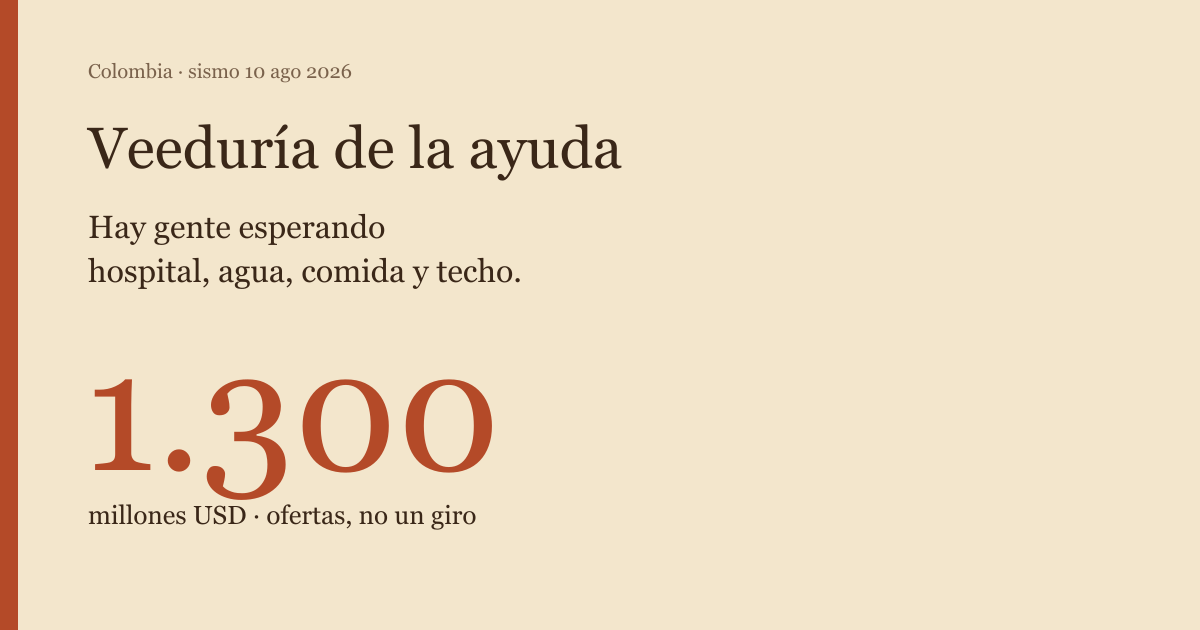
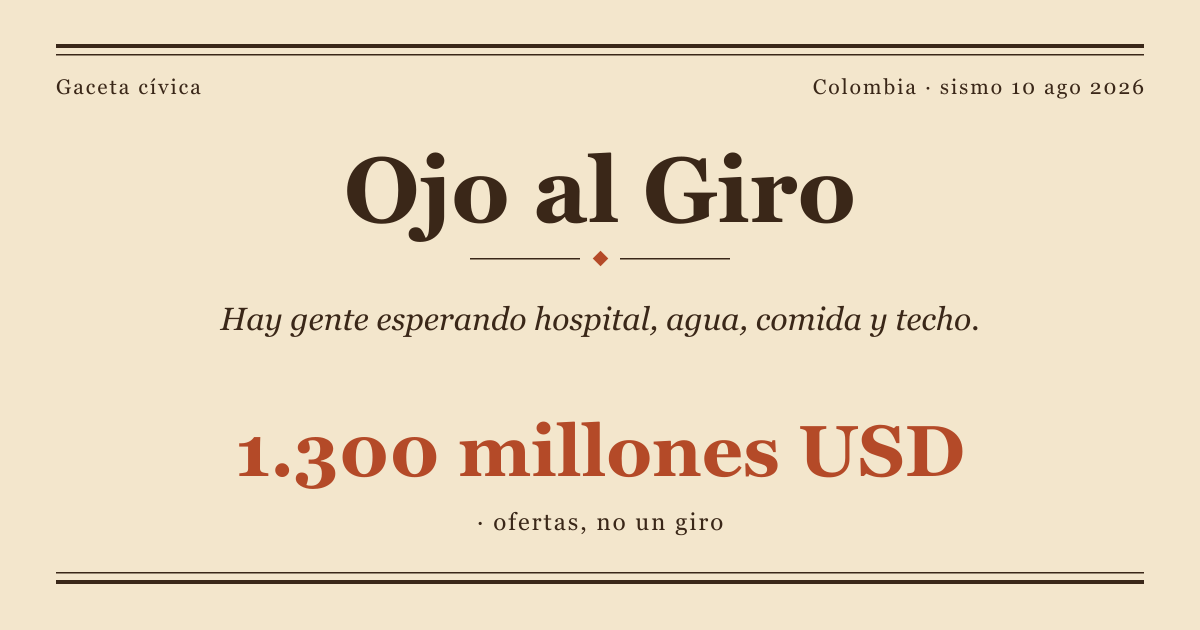
Renombrar a Ojo al Giro y proteger el registro con el validador.

diff --git a/index.html b/index.html
@@ -3,12 +3,12 @@
   <head>
     <meta charset="utf-8" />
     <meta name="viewport" content="width=device-width, initial-scale=1" />
-    <title>Veeduría de la ayuda</title>
+    <title>Ojo al Giro</title>
     <meta
       name="description"
       content="Hay gente esperando hospital, agua, comida y techo. Registro de la ayuda anunciada tras el sismo. Oferta no es giro."
     />
-    <meta property="og:title" content="Veeduría de la ayuda" />
+    <meta property="og:title" content="Ojo al Giro" />
     <meta
       property="og:description"
       content="Hay gente esperando. Oferta no es giro. Registro con fuente."
@@ -17,21 +17,21 @@
     <meta property="og:locale:alternate" content="en_US" />
     <meta
       property="og:image"
-      content="https://veeduria-ayuda.vercel.app/public/cartel-veeduria.png"
+      content="https://ojo-al-giro.vercel.app/public/cartel-veeduria.png"
     />
-    <meta property="og:url" content="https://veeduria-ayuda.vercel.app/" />
+    <meta property="og:url" content="https://ojo-al-giro.vercel.app/" />
     <meta property="og:type" content="website" />
     <meta name="twitter:card" content="summary_large_image" />
-    <meta name="twitter:title" content="Veeduría de la ayuda" />
+    <meta name="twitter:title" content="Ojo al Giro" />
     <meta
       name="twitter:description"
       content="Hay gente esperando. Oferta no es giro. Registro con fuente."
     />
     <meta
       name="twitter:image"
-      content="https://veeduria-ayuda.vercel.app/public/cartel-veeduria.png"
+      content="https://ojo-al-giro.vercel.app/public/cartel-veeduria.png"
     />
-    <link rel="canonical" href="https://veeduria-ayuda.vercel.app/" />
+    <link rel="canonical" href="https://ojo-al-giro.vercel.app/" />
     <link rel="stylesheet" href="styles.css" />
     <script>
       if (/[?&]lang=en(?:&|$)/.test(location.search)) {
@@ -52,8 +52,8 @@
         </p>
       </div>
       <h1>
-        <span data-lang="es">Veeduría de la ayuda</span>
-        <span data-lang="en">Watching the aid</span>
+        <span data-lang="es">Ojo al Giro</span>
+        <span data-lang="en">Ojo al Giro</span>
       </h1>
       <p class="lead">
         <span data-lang="es">Hay gente esperando hospital, agua, comida y techo. Aquí se sigue la ayuda que se anunció. Con fuente. Lo anunciado no es lo que ya llegó.</span>
@@ -151,10 +151,10 @@
 
       <p class="tweet-line">
         <span id="share-copy-es" data-lang="es">Hay gente esperando hospital, agua, comida y techo. Los 1.300 millones USD son ofertas, no un giro.
-https://veeduria-ayuda.vercel.app/
+https://ojo-al-giro.vercel.app/
 @infopresidencia @UNGRD @CancilleriaCol @CGR_Colombia</span>
         <span id="share-copy-en" data-lang="en">People are waiting for hospitals, water, food and shelter. The USD 1.3 billion are offers, not a transfer.
-https://veeduria-ayuda.vercel.app/?lang=en
+https://ojo-al-giro.vercel.app/?lang=en
 @infopresidencia @UNGRD @CancilleriaCol @CGR_Colombia</span>
         <button type="button" id="copy-btn">
           <span data-lang="es">Copiar para X</span>
@@ -208,7 +208,7 @@ https://veeduria-ayuda.vercel.app/?lang=en
 
     <footer>
       <p>
-        <a href="https://github.com/eliospina/veeduria-ayuda">GitHub</a>
+        <a href="https://github.com/eliospina/ojo-al-giro">GitHub</a>
         ·
         <span data-lang="es">No administra fondos. No los pide. Informa, porque hay gente esperando. Sin fuente, —.</span>
         <span data-lang="en">Does not administer funds. Does not ask for them. It reports, because people are waiting. No source, —.</span>

diff --git a/AGENTS.md b/AGENTS.md
@@ -1,17 +1,17 @@
-# Veeduría de la ayuda — brief del agente
+# Ojo al Giro — brief del agente
 
 Elizabeth hace esto de forma voluntaria y busca empleo. No abrir rediseños ni sesiones largas. Un cambio pequeño con fuente, o nada.
 
-Sitio: https://veeduria-ayuda.vercel.app/
-Repo: este. GitHub: eliospina/veeduria-ayuda. Rama: main.
+Sitio: https://ojo-al-giro.vercel.app/
+Repo: este. GitHub: eliospina/ojo-al-giro. Rama: main.
 
 Hay otro proyecto, la ciudad (ciudad-resiliente, el óvalo). **No se toca.** No mezclar musgo, óvalo, nave ni costos de célula con este registro.
 
 ## Qué es
 
-Gaceta cívica. Gente esperando hospital, agua, comida y techo. Se sigue la ayuda anunciada tras el sismo del 10 ago 2026. Con fuente.
+Gaceta cívica. Gente esperando hospital, agua, comida y techo. Se sigue la ayuda anunciada tras el sismo del 10 ago 2026. Con fuente. El nombre recuerda que oferta no es giro.
 
-No administra fondos. No los pide. No acusa. No certifica que la ayuda haya llegado a las casas. No inventa víctimas, municipios ni cifras.
+No administra fondos. No los pide. No acusa. No certifica que la ayuda haya llegado a las casas. No inventa víctimas, municipios ni cifras. No es una veeduría institucional.
 
 ## Cifras
 
@@ -28,12 +28,15 @@ No administra fondos. No los pide. No acusa. No certifica que la ayuda haya lleg
 
 Papel `#f3e6cc`, tinta `#3a2718`, óxido `#b44a28`. No volver al negro de tablero ni al afiche en versalitas. Texto corto. Español primero. El chat pregunta ¿Llegó? y solo responde con el registro.
 
+Antes de abrir PR: `node scripts/validar-flujos.mjs` y `node --test scripts/totals.test.mjs`.
+
 ## Trabajo diario (si corre solo)
 
 1. Buscar anuncios nuevos en fuentes públicas ya usadas (Cancillería, OCHA, EFE, El Tiempo, Infobae, bancos, gobiernos).
 2. Si no hay cifra nueva con URL, **no hacer commit**. Cerrar.
 3. Si hay, añadir una fila al registro de flujos, con origen, monto, ruta, municipio o —, ¿llegó? o —, fuente con URL.
-4. Abrir un **pull request**. No empujar a main. No desplegar a producción. Elizabeth revisa cuando pueda.
-5. Un párrafo en el PR: qué se añadió y el enlace. Nada más.
+4. Correr el validador.
+5. Abrir un **pull request**. No empujar a main. No desplegar a producción. Elizabeth revisa cuando pueda.
+6. Un párrafo en el PR: qué se añadió y el enlace. Nada más.
 
 Si duda, no publique.

diff --git a/README.md b/README.md
@@ -1,16 +1,21 @@
-# Veeduría de la ayuda
+# Ojo al Giro
 
-Sitio: [veeduria-ayuda.vercel.app](https://veeduria-ayuda.vercel.app/)  
-Código: [github.com/eliospina/veeduria-ayuda](https://github.com/eliospina/veeduria-ayuda)
+Sitio: [ojo-al-giro.vercel.app](https://ojo-al-giro.vercel.app/)  
+Código: [github.com/eliospina/ojo-al-giro](https://github.com/eliospina/ojo-al-giro)
 
-Registro público, con fuente, de la ayuda anunciada a Colombia tras el sismo.
-
-A public, sourced record of aid announced to Colombia after the earthquake.
+Registro público, con fuente, de la ayuda anunciada a Colombia tras el sismo. Oferta no es giro.
 
 ```bash
-git clone https://github.com/eliospina/veeduria-ayuda.git
-cd veeduria-ayuda
+git clone https://github.com/eliospina/ojo-al-giro.git
+cd ojo-al-giro
 python3 -m http.server 4174
+```
+
+Antes de abrir un PR:
+
+```bash
+node scripts/validar-flujos.mjs
+node --test scripts/totals.test.mjs
 ```
 
 No recibe fondos, no los administra y no los pide. Informa.
